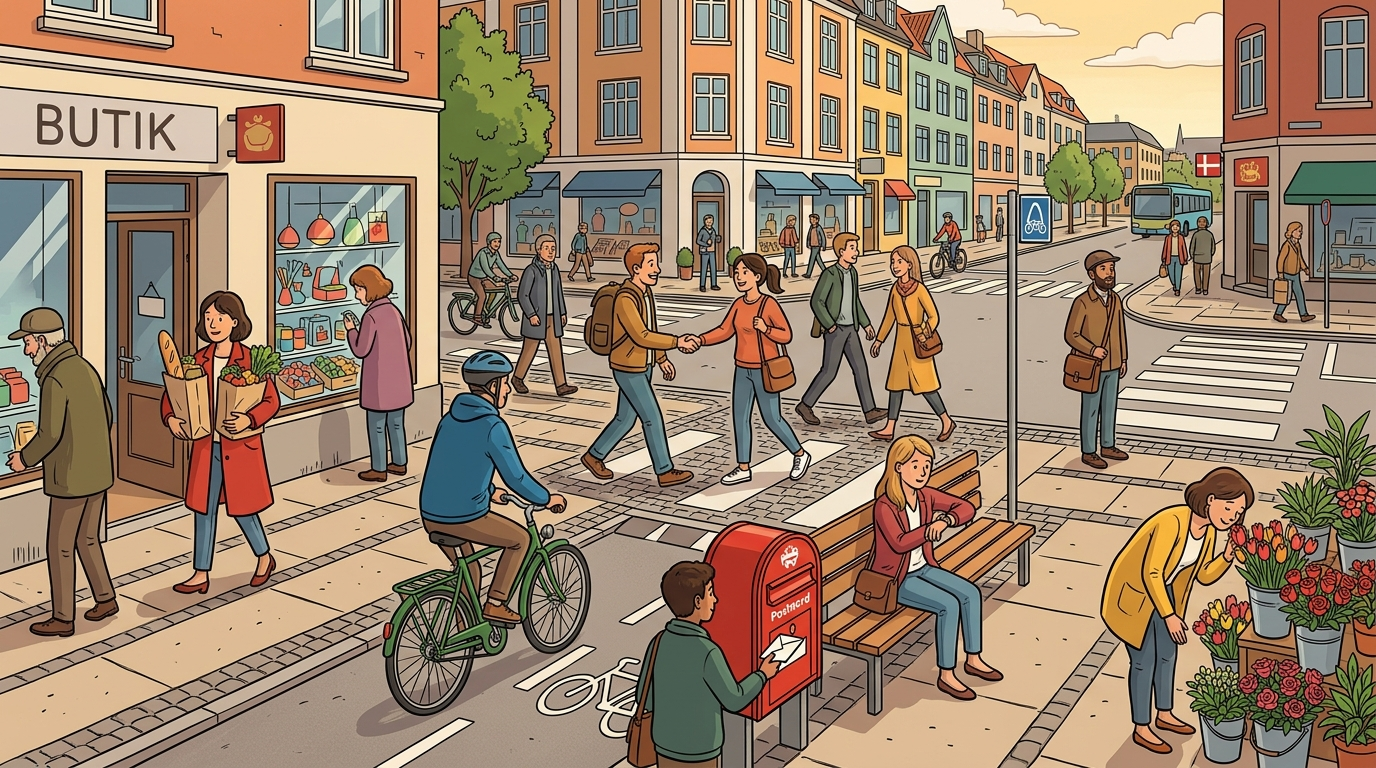
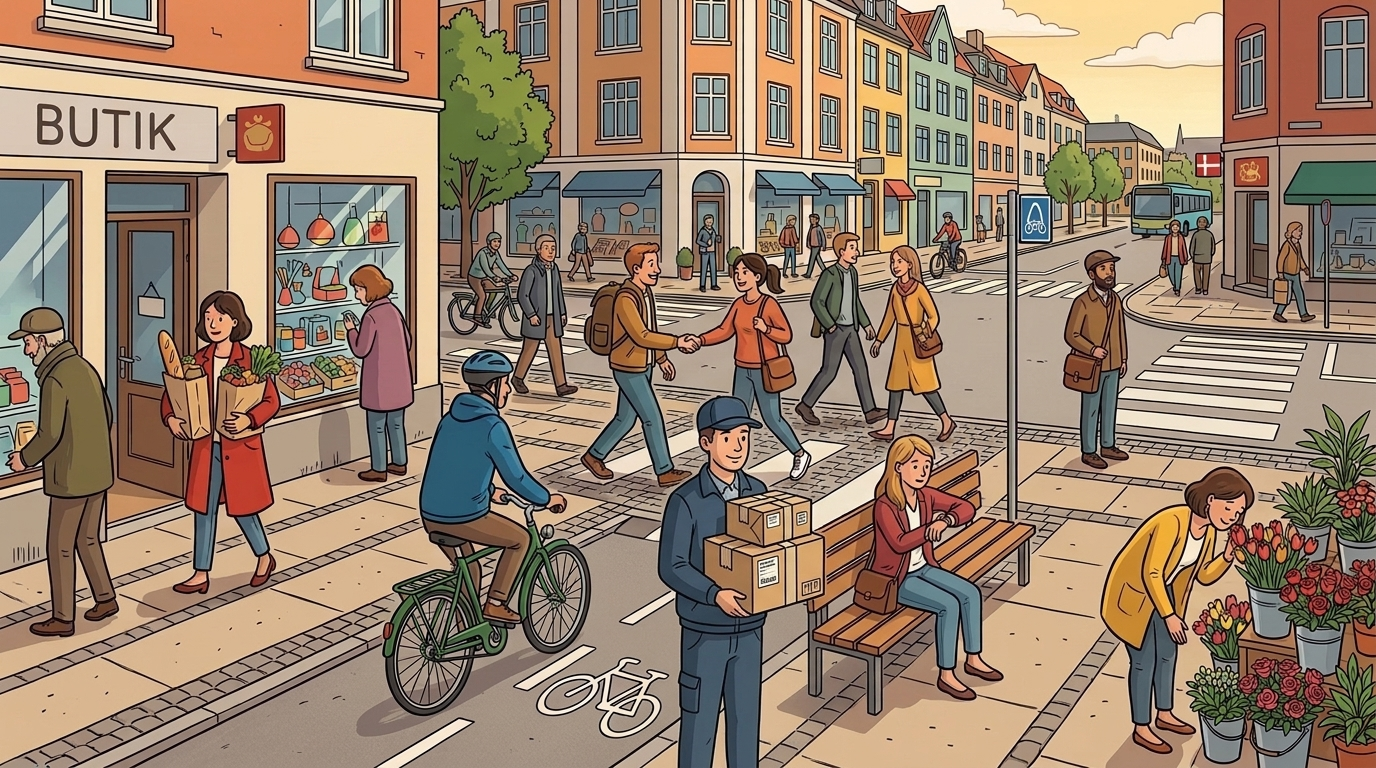
feat(verber_byrum): opdater titel til 'Byen og gaden' samt nyt vrimlebillede med pakkebuddet Anders ('Anders bringer pakker ud')

diff --git a/src/utils/top100_verber_translations.js b/src/utils/top100_verber_translations.js
@@ -26,7 +26,7 @@ export const verberTranslations = {
     "verber_return_title": "Du undersøger verbet:",
     "verber_return_sub": "Se handlingen på billedet nedenfor med nutid og datid.",
     "verber_return_back_btn": "⬅ Tilbage til {target}",
-    "verber_scene1_title": "Scene 1: Byrummet og gaden",
+    "verber_scene1_title": "Scene 1: Byen og gaden",
     "verber_scene1_desc": "Lær 20 uundværlige hverdagsverber om bevægelse, transport og sociale møder i byens gader.",
     "verber_scene2_title": "Scene 2: Hjemmet og køkkenet",
     "verber_scene2_desc": "Lær 20 uundværlige hverdagsverber om madlavning, huslige gøremål og hyggelige rutiner i hjemmet.",
@@ -2176,71 +2176,71 @@ export const verberWordTranslations = {
     "datid": "bragte",
     "da": {
       "meaning": "at bringe",
-      "sentence": "Drengen bringer et brev til den røde postkasse."
+      "sentence": "Anders bringer pakker ud."
     },
     "en": {
       "meaning": "to bring / deliver",
-      "sentence": "The boy delivers a letter to the red mailbox."
+      "sentence": "Anders delivers packages."
     },
     "de": {
-      "meaning": "bringen",
-      "sentence": "Der Junge bringt einen Brief zum roten Briefkasten."
+      "meaning": "bringen / austragen",
+      "sentence": "Anders bringt Pakete aus."
     },
     "es": {
-      "meaning": "llevar",
-      "sentence": "El niño lleva una carta al buzón rojo."
+      "meaning": "llevar / repartir",
+      "sentence": "Anders reparte paquetes."
     },
     "tr": {
-      "meaning": "götürmek",
-      "sentence": "Çocuk kırmızı posta kutusuna bir mektup götürüyor."
+      "meaning": "teslim etmek / dağıtmak",
+      "sentence": "Anders paketleri dağıtıyor."
     },
     "ru": {
-      "meaning": "приносить / доставлять",
-      "sentence": "Мальчик несёт письмо к красному почтовому ящику."
+      "meaning": "доставлять",
+      "sentence": "Андерс доставляет посылки."
     },
     "uk": {
-      "meaning": "приносити / доставляти",
-      "sentence": "Хлопчик несе лист до червоної поштової скриньки."
+      "meaning": "доставляти",
+      "sentence": "Андерс доставляє посилки."
     },
     "pt": {
-      "meaning": "trazer / levar",
-      "sentence": "O menino leva uma carta para a caixa de correio vermelha."
+      "meaning": "entregar",
+      "sentence": "Anders entrega encomendas."
     },
     "fa": {
-      "meaning": "رساندن / بردن",
-      "sentence": "پسر نامهای را به صندوق پست قرمز میبرد."
+      "meaning": "تحویل دادن / رساندن",
+      "sentence": "آندرس بستهها را تحویل میدهد."
     },
     "ku": {
-      "meaning": "birin / gihandin",
-      "sentence": "Kurik nameyekê dibe qutiya posteyê ya sor."
+      "meaning": "gihandin / belavkirin",
+      "sentence": "Anders pakêtan belav dike."
     },
     "ar": {
-      "meaning": "يوصل / يحضر",
-      "sentence": "يوصل الصبي رسالة إلى صندوق البريد الأحمر."
+      "meaning": "يوصل / يوزع",
+      "sentence": "أندرس يوصل الطرود."
     },
     "zh": {
-      "meaning": "带来 / 送去",
-      "sentence": "男孩把一封信送到红色的邮箱里。"
+      "meaning": "派送 / 送递",
+      "sentence": "安德斯在派送包裹。"
     },
     "vi": {
-      "meaning": "mang đến / mang lại",
-      "sentence": "Cậu bé mang một bức thư đến hòm thư màu đỏ."
+      "meaning": "giao hàng",
+      "sentence": "Anders đi giao các bưu kiện."
     },
     "th": {
-      "meaning": "นำมา / นำไปส่ง",
-      "sentence": "เด็กชายนำจดหมายไปหย่อนที่ตู้ไปรษณีย์สีแดง"
+      "meaning": "นำส่ง / ส่งพัสดุ",
+      "sentence": "แอนเดอร์สกำลังนำพัสดุไปส่ง"
     },
     "ur": {
-      "meaning": "پہنچانا / لے جانا",
-      "sentence": "لڑکا سرخ لیٹر بکس میں خط لے کر جاتا ہے۔"
+      "meaning": "پہنچانا / ڈلیور کرنا",
+      "sentence": "اینڈرس پارسل ڈلیور کر رہا ہے۔"
     },
     "ne": {
-      "meaning": "पुर्याउनु",
-      "sentence": "केटाले रातो हुलाक बाकसमा चिठी पुर्याउँछ।"
+      "meaning": "पुर्याउनु / डेलिभर गर्नु",
+      "sentence": "एन्डर्सले पार्सलहरू पुर्याउँछ।"
     },
     "ps": {
-      "meaning": "وړل / رسول",
-      "sentence": "هلک سور پوست بکس ته یو لیک وړي."
+      "meaning": "وړل / وېشل",
+      "sentence": "انډرس پارسلونه ویشي."
     }
   },
   "at finde": {

diff --git a/src/views/VerberByrumView.js b/src/views/VerberByrumView.js
@@ -1261,7 +1261,7 @@ export function renderVerberByrumView(container, navigateFn, extraData = {}) {
         { word: 'at se', nutid: 'ser', datid: 'så', x: 85, y: 76, sentence: 'Hun ser de flotte farverige blomster.' },
         { word: 'at smile', nutid: 'smiler', datid: 'smilede', x: 50, y: 44, sentence: 'Vennerne smiler til hinanden da de ses.' },
         { word: 'at hente', nutid: 'henter', datid: 'hentede', x: 16, y: 56, sentence: 'Hun henter frisk brød og grøntsager i butikken.' },
-        { word: 'at bringe', nutid: 'bringer', datid: 'bragte', x: 52, y: 84, sentence: 'Drengen bringer et brev til den røde postkasse.' },
+        { word: 'at bringe', nutid: 'bringer', datid: 'bragte', x: 53, y: 76, sentence: 'Anders bringer pakker ud.' },
         { word: 'at finde', nutid: 'finder', datid: 'fandt', x: 88, y: 82, sentence: 'Pigen finder en flot buket blomster.' },
         { word: 'at miste', nutid: 'mister', datid: 'mistede', x: 74, y: 48, sentence: 'Pas på ikke at miste din pung i menneskemængden!' },
         { word: 'at passe', nutid: 'passer', datid: 'passede', x: 38, y: 75, sentence: 'Cyklisten passer godt på fodgængerne.' },
@@ -1308,7 +1308,7 @@ export function renderVerberByrumView(container, navigateFn, extraData = {}) {
 
     const img = document.createElement('img');
     img.src = 'assets/verber_byrum_vrimmel.jpg';
-    img.alt = 'Byrummet og gaden vrimlebillede';
+    img.alt = 'Byen og gaden vrimlebillede';
     stage.appendChild(img);
 
     // Detail card container
@@ -1651,7 +1651,7 @@ export function renderVerberByrumView(container, navigateFn, extraData = {}) {
             options: [
                 { text: "at hente en pakke 📦", correct: true },
                 { text: "at svømme 🏊", correct: false },
-                { text: "at bringe et brev ud ✉", correct: true },
+                { text: "at bringe pakker ud 📦", correct: true },
                 { text: "at stege kød 🍳", correct: false },
                 { text: "at vente ved pakkeboksen ⏳", correct: true },
                 { text: "at synge opera 🎵", correct: false }
@@ -1864,30 +1864,30 @@ export function renderVerberByrumView(container, navigateFn, extraData = {}) {
             ]
         },
         {
-            title: "4. Brevet i postkassen",
+            title: "4. Anders bringer pakker ud",
             steps: [
                 {
-                    q: "1. Hvad bringer drengen hen til gadehjørnet?",
+                    q: "1. Hvad laver Anders på fortovet?",
                     options: [
-                        { text: "Han bringer et fødselsdagsbrev ✉", correct: true },
-                        { text: "Han bringer en tung sofa 🛋", correct: false },
-                        { text: "Han bringer en gryde suppe 🍲", correct: false }
+                        { text: "Han bringer pakker ud til beboerne 📦", correct: true },
+                        { text: "Han sover på asfalten 🛌", correct: false },
+                        { text: "Han spiser en stor kage 🎂", correct: false }
                     ]
                 },
                 {
-                    q: "2. Hvor putter han brevet ned?",
+                    q: "2. Hvad bærer han i armene?",
                     options: [
-                        { text: "Han putter det i den røde postkasse 📮", correct: true },
-                        { text: "Han smider det i skraldespanden 🗑", correct: false },
-                        { text: "Han river det i stykker 📄", correct: false }
+                        { text: "Han bærer en stak papkasser 📦", correct: true },
+                        { text: "Han bærer en levende krokodille 🐊", correct: false },
+                        { text: "Han bærer en spand maling 🎨", correct: false }
                     ]
                 },
                 {
-                    q: "3. Hvad gør han ved busstoppestedet?",
+                    q: "3. Hvad gør kvinden på bænken lige ved siden af?",
                     options: [
-                        { text: "Han venter på bussen hjem 🚌", correct: true },
-                        { text: "Han løber væk i panik 🏃", correct: false },
-                        { text: "Han maler bænken 🎨", correct: false }
+                        { text: "Hun kigger på sit ur og venter ⏱", correct: true },
+                        { text: "Hun hopper i faldskærm 🪂", correct: false },
+                        { text: "Hun spiller trommer 🥁", correct: false }
                     ]
                 }
             ]

diff --git a/src/views/ByrummetView.js b/src/views/ByrummetView.js
@@ -35,7 +35,7 @@ export function renderByrummetView(container, navigateFn, extraData = {}) {
                 <span>Du undersøger ${focusName} i vrimlebilledet.</span>
             </div>
             <button class="return-banner-btn" id="return-task-btn">
-                ↩ Tilbage til din opgave i Byrummet og gaden
+                ↩ Tilbage til din opgave i Byen og gaden
             </button>
         `;
         returnBanner.querySelector('#return-task-btn').onclick = () => {
@@ -2938,7 +2938,7 @@ export function renderByrummetView(container, navigateFn, extraData = {}) {
                                 I <em>De 100 verber: Byrummet</em> kan du lære alle 20 handlinger i byen med vrimlebilleder, datid, synonymer og detektiv-missioner!
                             </p>
                             <button class="verb-bridge-action-btn" id="go-to-verber-byrum-cta">
-                                <span>🔴</span> Gå til "De 100 verber – Byrummet & Gaden" ➔
+                                <span>🔴</span> Gå til "De 100 verber – Byen og gaden" ➔
                             </button>
                         </div>
                     ` : ''}

diff --git a/src/utils/top100_translations.js b/src/utils/top100_translations.js
@@ -67,7 +67,7 @@ export const top100Translations = {
     "top100_verber_hub_title": "De 100 mest almindelige verber",
     "top100_verber_hub_desc": "Verber er sprogets motor og udtrykker handlinger, bevægelser, tilstande og relationer. Udforsk de 100 mest almindelige verber fordelt på fem levende scener med 20 verber i hver.",
     "top100_verber_hub_class_badge": "🔴 Ordklasse: verber (udsagnsord i rød farve)",
-    "top100_verber_scene1_title": "🏙 Byrummet og gaden",
+    "top100_verber_scene1_title": "🏙 Byen og gaden",
     "top100_verber_scene1_desc": "Bevægelse, transport og byliv: gå, komme, møde, køre, cykle, stoppe, vente, kigge, se, smile...",
     "top100_verber_scene1_btn": "Gå til byen ➔",
     "top100_verber_scene2_title": "🍳 Hjemmet og køkkenet",

diff --git a/src/views/Top100VerberMenuView.js b/src/views/Top100VerberMenuView.js
@@ -148,12 +148,12 @@ export function renderTop100VerberMenuView(container, navigateFn) {
     const grid = document.createElement('div');
     grid.className = 'hub-scenes-grid';
 
-    // 1. Scene 1: Byrummet & Gaden
+    // 1. Scene 1: Byen og gaden
     const cardByrum = document.createElement('div');
     cardByrum.className = 'scene-card';
     cardByrum.innerHTML = `
         <div class="scene-card-img-wrap">
-            <img src="assets/verber_byrum_vrimmel.jpg" alt="Byrummet vrimlebillede" class="scene-card-img">
+            <img src="assets/verber_byrum_vrimmel.jpg" alt="Byen vrimlebillede" class="scene-card-img">
         </div>
         <div class="scene-card-content">
             <h3>${getTranslation('top100_verber_scene1_title')}</h3>

diff --git a/src/components/SpotlightSearch.js b/src/components/SpotlightSearch.js
@@ -206,7 +206,7 @@ function buildSearchIndex() {
             const cleanKey = rawKey.replace(/^at\s+/, '').trim();
             const scene = verbEntry.scene || 'byrum';
             let viewTarget = 'verber_byrum';
-            let sceneName = 'Byrummet & Gaden';
+            let sceneName = 'Byen og gaden';
             if (scene === 'hjem') { viewTarget = 'verber_hjem'; sceneName = 'Hjemmet & Køkkenet'; }
             else if (scene === 'klasse') { viewTarget = 'verber_klasse'; sceneName = 'Klassen & Kontoret'; }
             else if (scene === 'park') { viewTarget = 'verber_park'; sceneName = 'Naturen & Fritiden'; }

diff --git a/src/views/ArbejdeBilvaerkstedView.js b/src/views/ArbejdeBilvaerkstedView.js
@@ -873,7 +873,7 @@ export function renderArbejdeBilvaerkstedView(container, navigateFn, extraData =
             id: 'koere',
             word: 'at køre',
             wordClass: 'verbum',
-            surface: 'De 100 verber – Byrummet & Gaden',
+            surface: 'De 100 verber – Byen og gaden',
             targetView: 'verber_byrum',
             icon: '🚙',
             forms: 'at køre • kører • kørte • har kørt',
